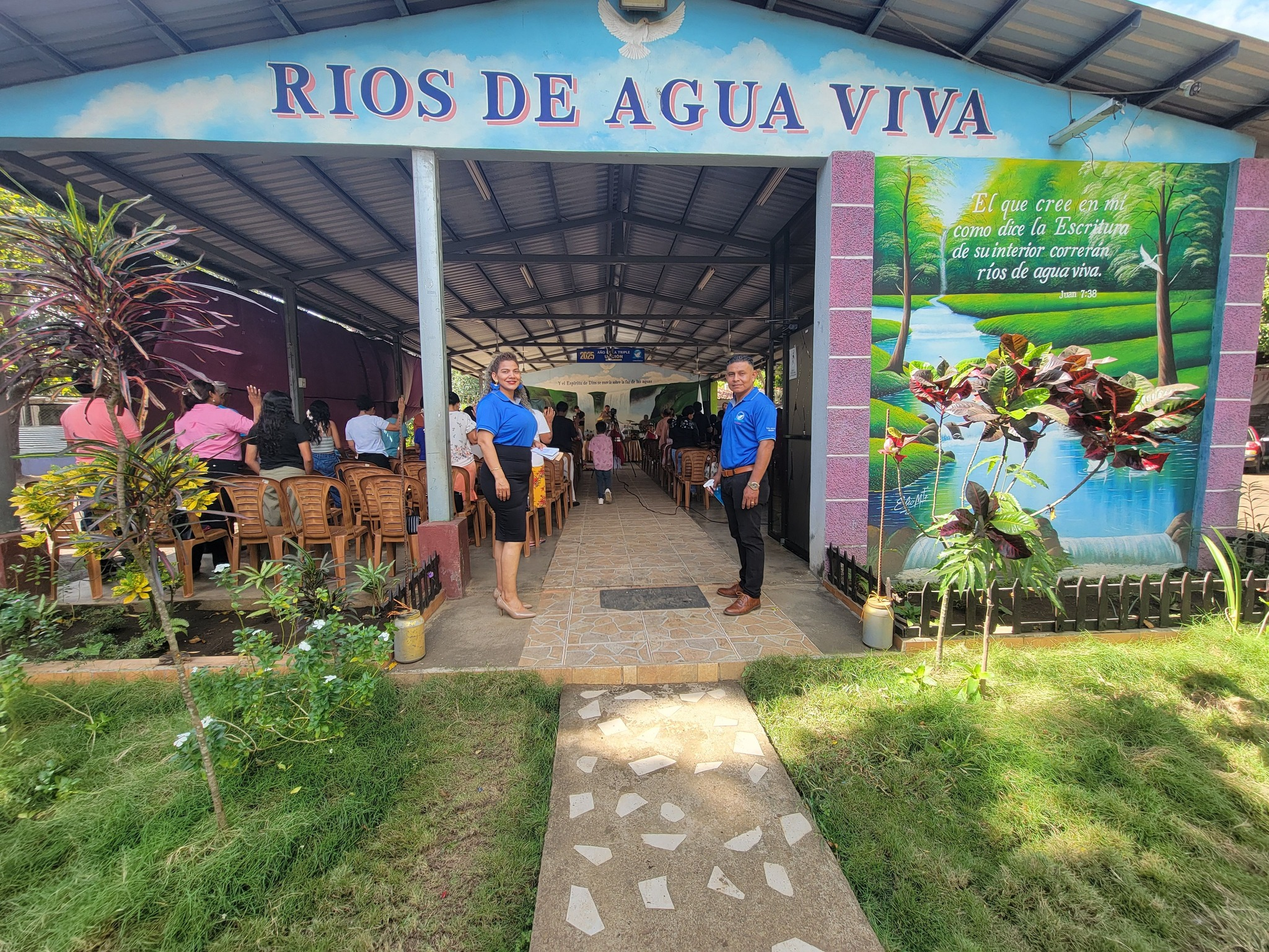
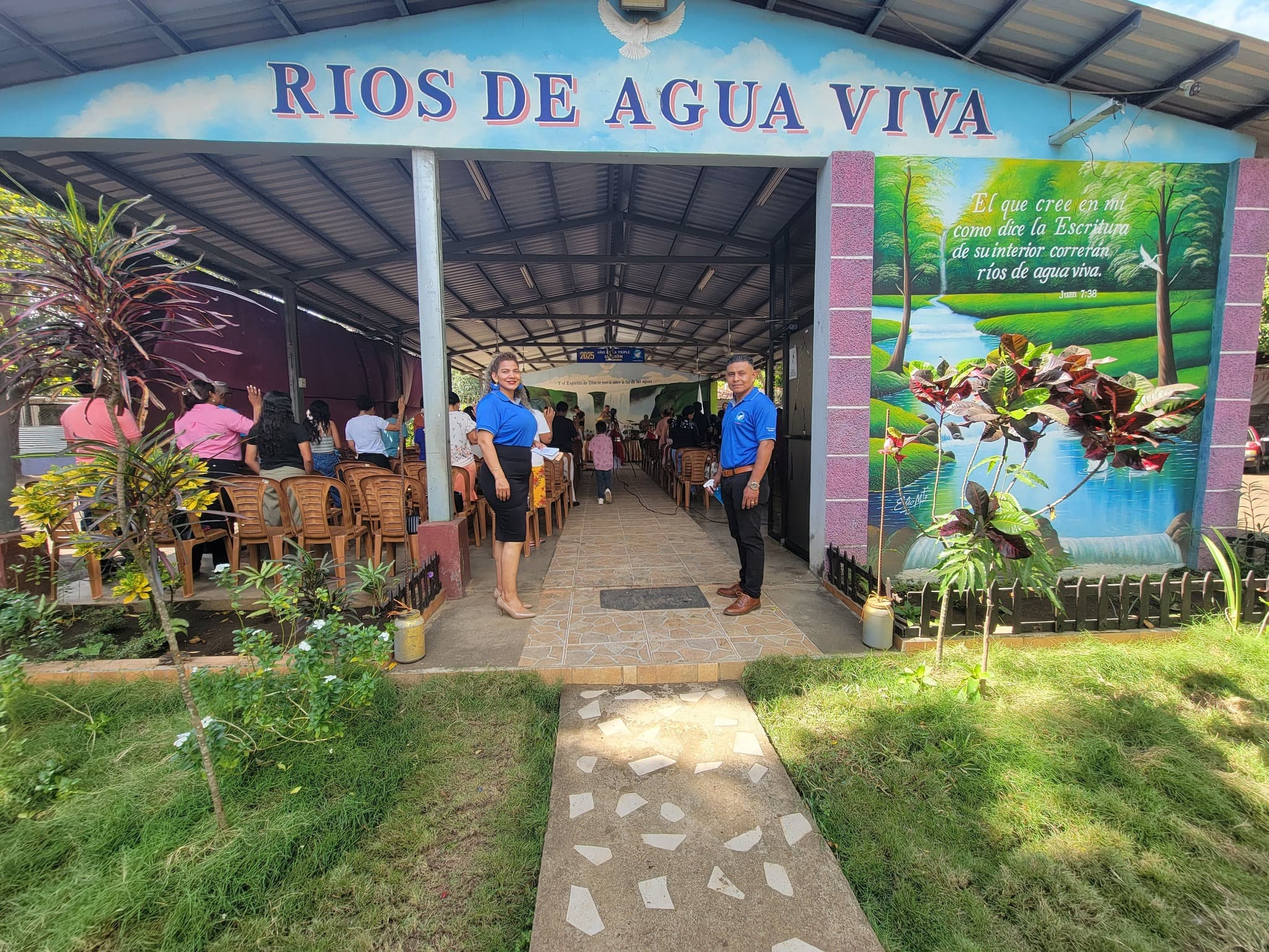
optimización de imágenes

diff --git a/index.html b/index.html
@@ -26,7 +26,7 @@
 
     <!-- Cards -->
     <div class="cards">
-        <img src="./images/pastores sin pastores.png" alt="Pastores" class="card__img">
+        <img src="./images/pastores sin pastores.jpg" alt="Pastores" class="card__img">
         <div class="cards__content">
             <h3 class="card__title">Bienvenidos a nuestro ministerio!</h3>
             <p>El ministerio <strong>Rios de Agua Viva Chinandega</strong> junto a la

diff --git a/style.css b/style.css
@@ -26,7 +26,7 @@ a {
 
 /* Encabezado */
 header {
-    background: url(./images/banner1.png) no-repeat center/cover;
+    background: url(./images/banner1.jpg) no-repeat center/cover;
     height: 650px;
     display: flex;
     flex-direction: column;
@@ -37,7 +37,7 @@ header {
 }
 h1 {
     font-family: "Playwrite AU SA", cursive;
-    text-shadow: 
+    text-shadow:
     1px 1px 0 #000,
     -1px 1px 0 #000,
     -1px -1px 0 #000,
